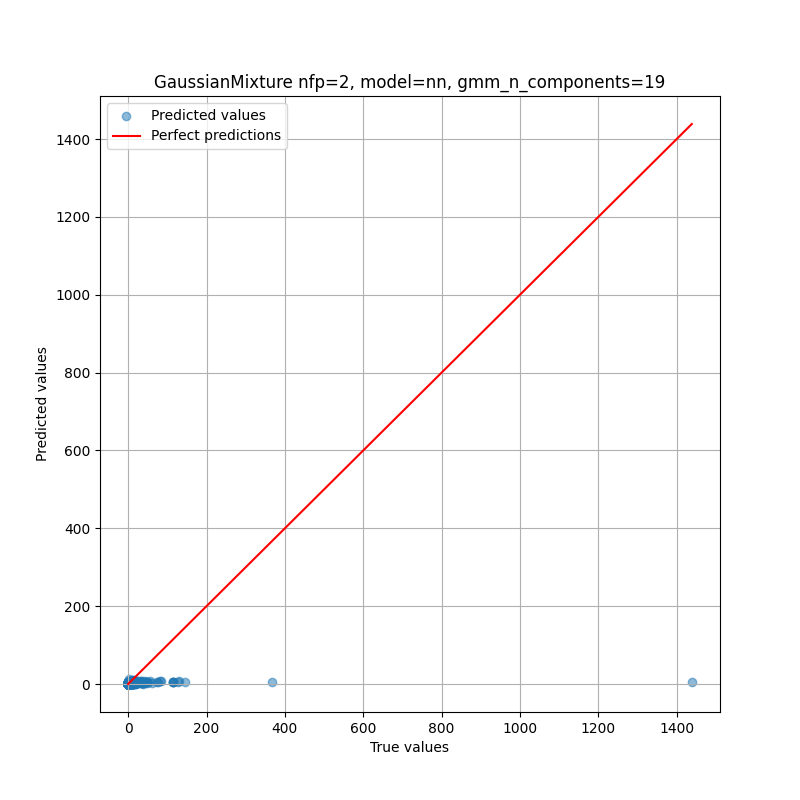
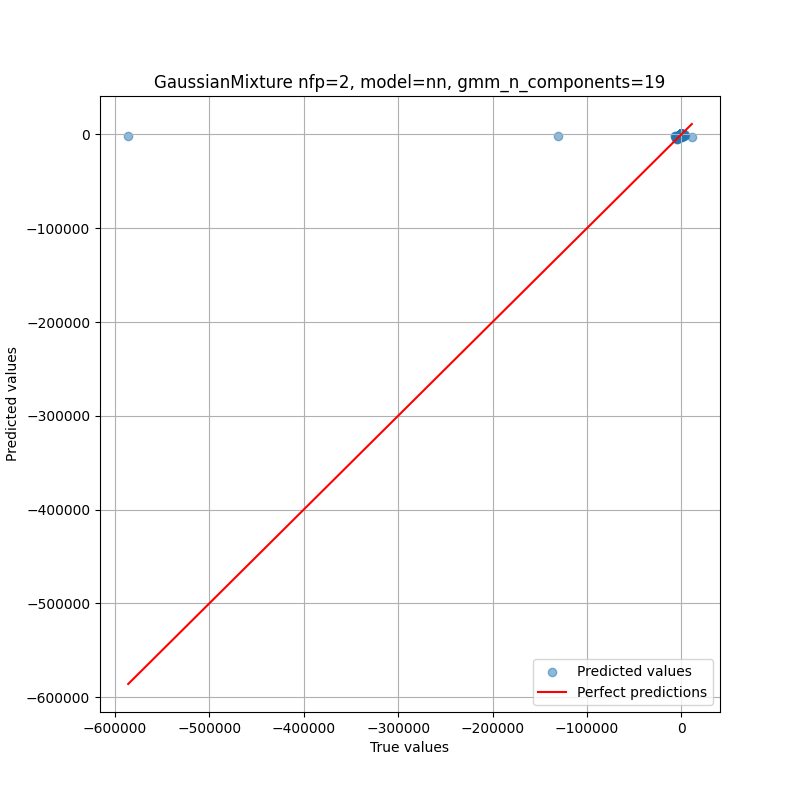
using new NN

diff --git a/model-candidates.py b/model-candidates.py
@@ -15,8 +15,8 @@ from qsc import Qsc
 params = {
     'results_path': 'results',
     'data_path': 'data',
-    'nfp': 4,
-    'n_samples': 50,
+    'nfp': 2,
+    'n_samples': 250,
     'gmm_n_components': 19,
     'model': 'nn',
     'number_of_samples': 100,
@@ -51,16 +51,17 @@ pipeline.fit(train_data)
 # Prepare a list to hold the samples
 samples = []
 
-# Continue sampling until we have 10k samples with values > 0
+# Continue sampling until we have number_of_samples samples with values > 0
 while len(samples) < params['number_of_samples']:
     # Sample a batch of 1000 samples at once for efficiency
     batch = pipeline.steps[0][1].inverse_transform(pipeline.steps[1][1].sample(params['number_of_samples'])[0])
     # Filter out samples with values <= 0
-    batch = batch = batch[np.all(batch > 0, axis=1)]
+    ########## Why was this filter here?? ##########
+    # batch = batch = batch[np.all(batch > 0, axis=1)]
     # Append the valid samples to our list
     samples.extend(batch)
 
-# Truncate the list to exactly 10k samples
+# Truncate the list to exactly number_of_samples samples
 samples = np.array(samples[:params['number_of_samples']])
 
 model_path = os.path.join(params['results_path'], f"nfp{params['nfp']}", f"nn_qsc_nfp{params['nfp']}_model{params['model']}.h5")
@@ -72,7 +73,8 @@ scaler_x = joblib.load(scaler_x_path)
 scaler_y = joblib.load(scaler_y_path)
 
 n_samples_index = 0
-prediction = make_prediction(model, scaler_x, samples[n_samples_index])
+sample = samples[n_samples_index]
+prediction = make_prediction(model, scaler_x, sample)
 
 n_axis_fourier_modes = int((len(prediction)-2)/2)
 predicted_rc = np.append([1],prediction[0:2*n_axis_fourier_modes:2])
@@ -87,6 +89,7 @@ print(f'  predicted_etabar  = {predicted_eta_bar:.3e}')
 print(f'  predicted_B2c     = {predicted_B2c:.3e}')
 print('------------------------------------------')
 print(f'  predicted_iota          = {stel.iota:.3e}')
+print(f'  asked_iota              = {sample[0]:.3e}')
 print(f'  predicted_elongation    = {stel.max_elongation:.3e}')
 print(f'  predicted_L_gradB       = {stel.min_L_grad_B:.3e}')
 print(f'  predicted_L_gradgradB   = {1/stel.grad_grad_B_inverse_scale_length:.3e}')
@@ -115,19 +118,20 @@ for prediction_sample in tqdm(predictions):
     B2c = prediction_sample[2*n_axis_fourier_modes+1]
     stel = Qsc(rc=rc, zs=zs, etabar=eta_bar, nfp=int(params['nfp']), B2c=B2c, order='r2', nphi=71)
     Y_test.append([
-        0.33*np.abs(1/stel.iota),
-        0.06/stel.r_singularity,
+        stel.iota,
+        stel.r_singularity,
         stel.B20_variation,
-        stel.max_elongation/8,
-        0.6/stel.min_L_grad_B,
-        0.6*stel.grad_grad_B_inverse_scale_length,
-        0.3/stel.min_R0,
+        stel.max_elongation,
+        stel.min_L_grad_B,
+        1/stel.grad_grad_B_inverse_scale_length,
+        stel.min_R0,
+        stel.d2_volume_d_psi2,
     ])
-
 Y_test = np.array(Y_test)
-print(Y_test.shape)
-print(samples.shape)
-print(f'MAE: {np.mean(np.abs(Y_test-samples))}')
+
+# loss, mae = model.evaluate(predictions, Y_test, verbose=0)
+# print(f"Test MAE: {mae}")
+# print(f"Test Loss: {loss}")
 
 plt.figure(figsize=(8, 8))
 plt.scatter(Y_test, samples, label='Predicted values', alpha=0.5)
